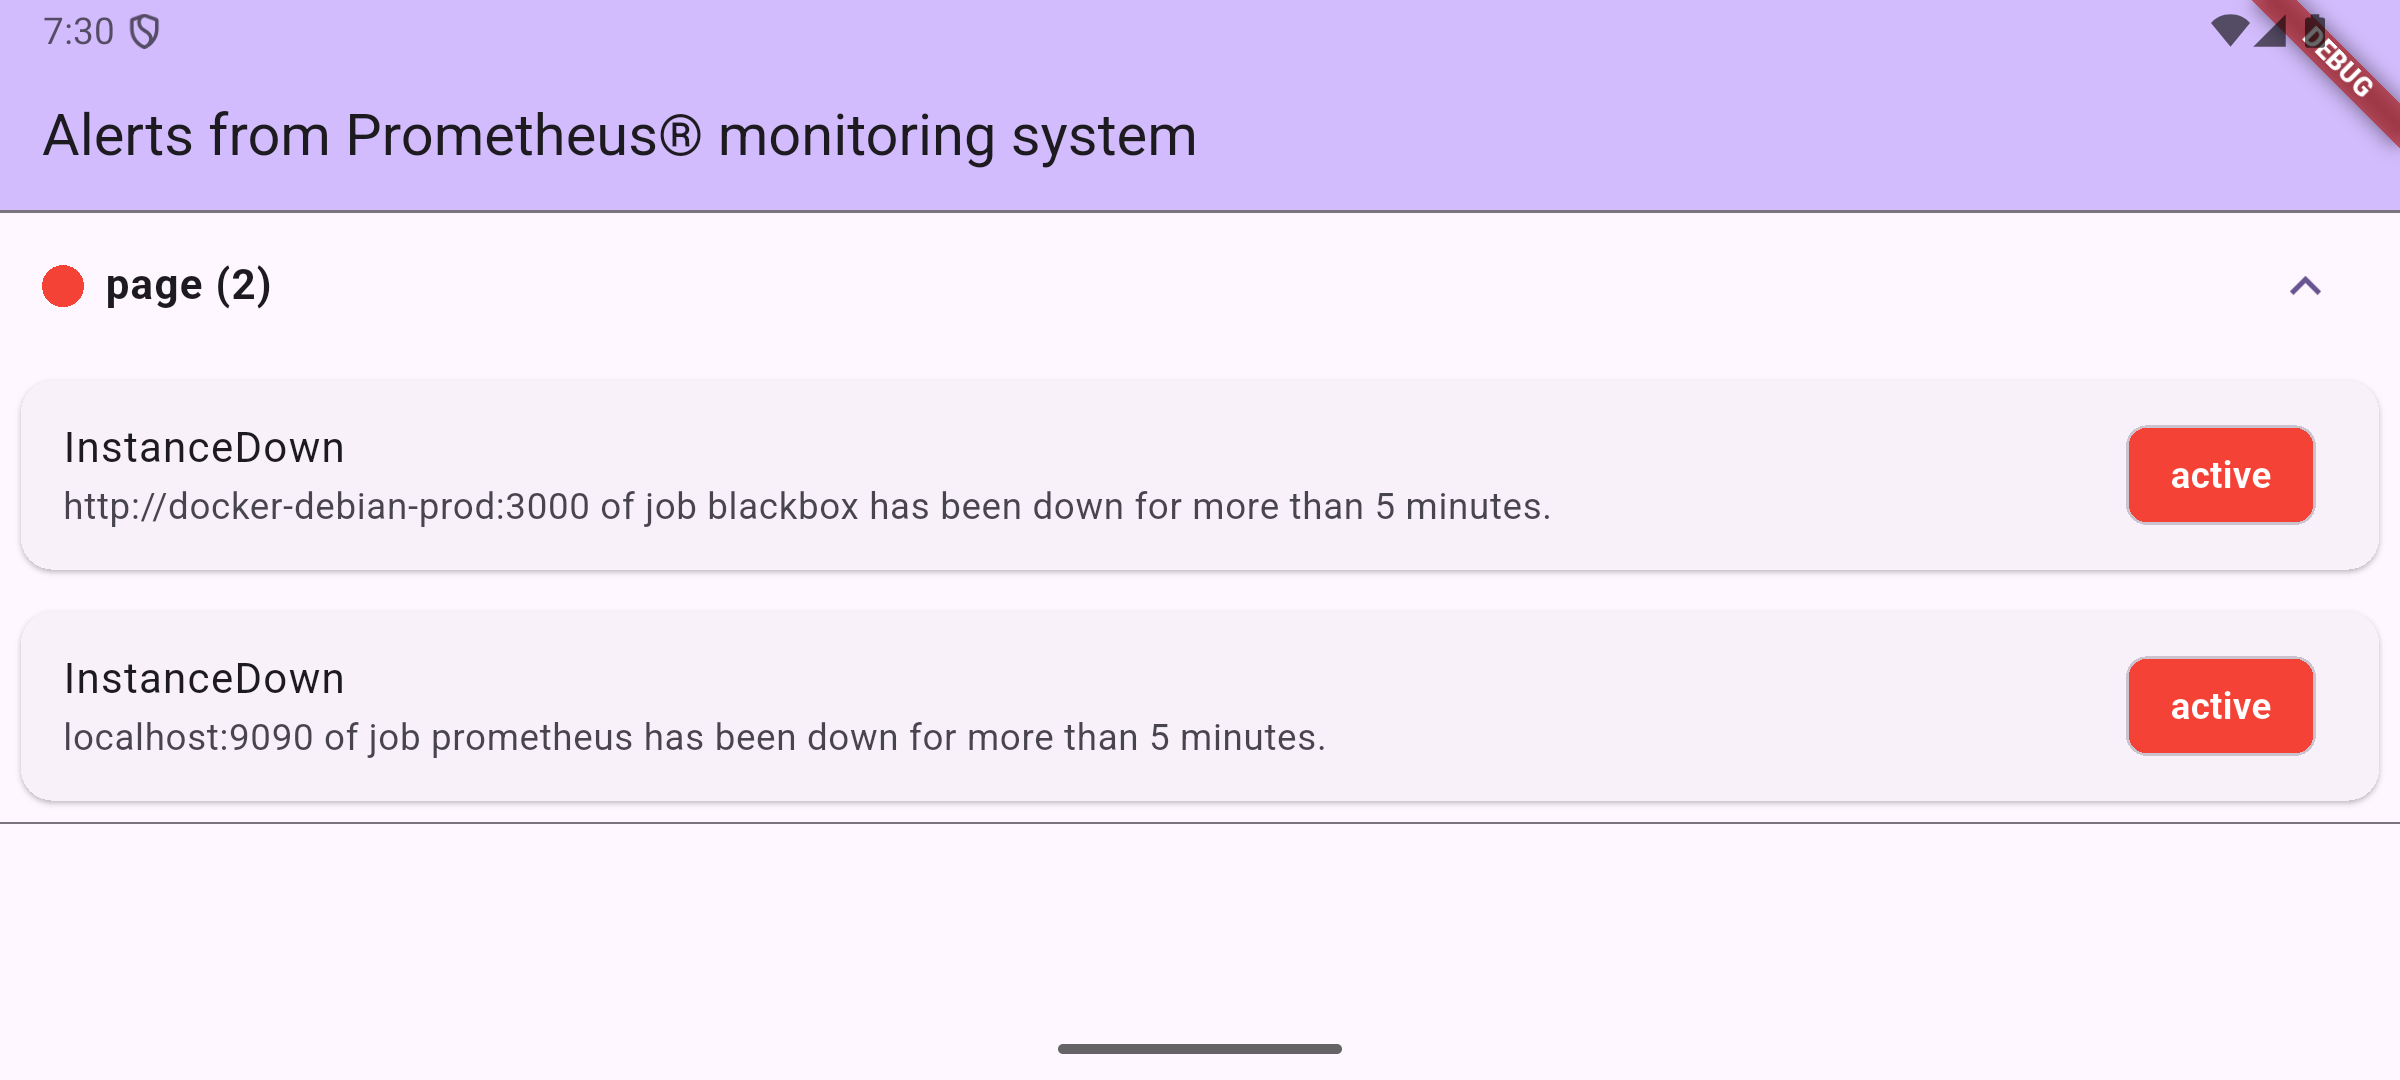
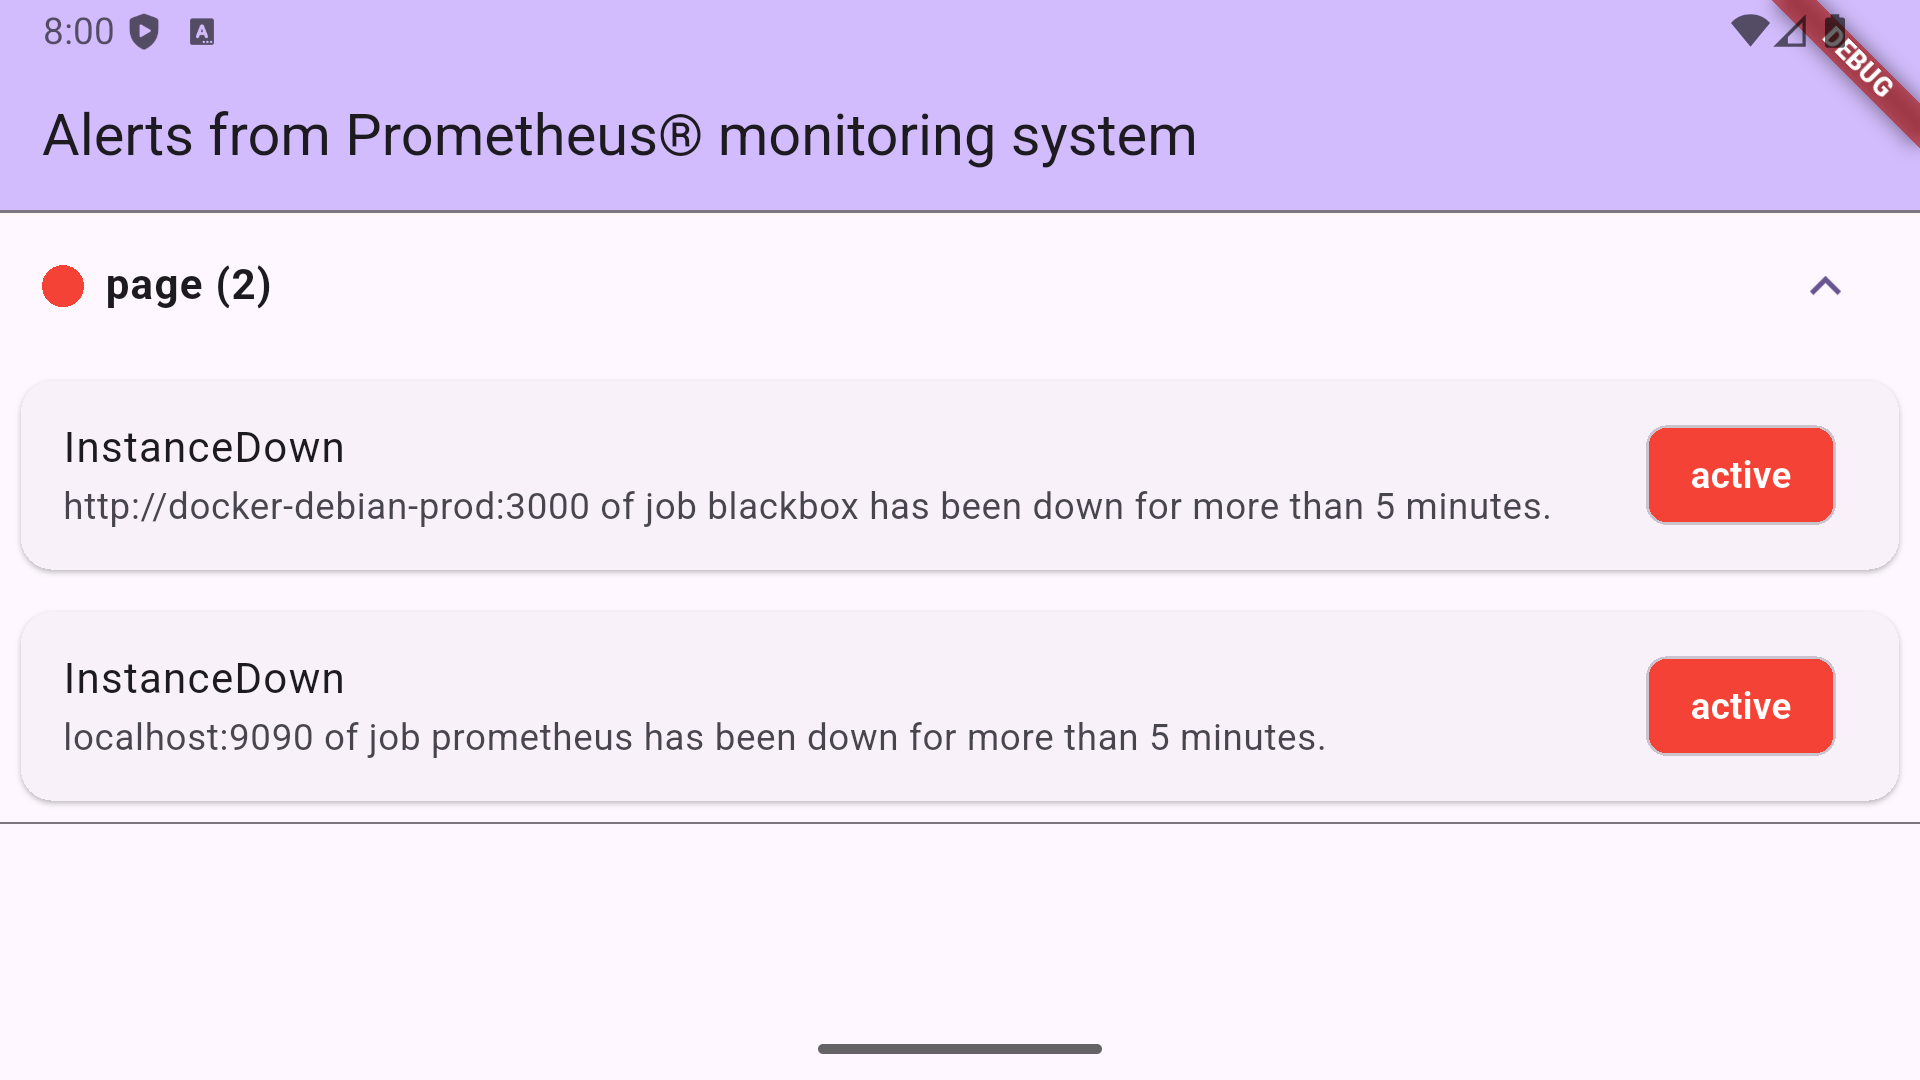
feat: frame screenshots

diff --git a/android/fastlane/metadata/android/screenshots.html b/android/fastlane/metadata/android/screenshots.html
@@ -69,7 +69,7 @@
     <hr>
     <table>
       <tr>
-        <th colspan="2">
+        <th colspan="4">
           <a id="en-US-phoneScreenshots" class="deviceName" href="#en-US-phoneScreenshots">phoneScreenshots</a>
         </th>
       </tr>

diff --git a/README.md b/README.md
@@ -4,7 +4,7 @@ A simple [Flutter](https://flutter.dev/) app to fetch and display [Prometheus® 
 
 *Not affiliated with the official Prometheus® Alertmanager project.*
 
-![Alert overview landscape](android/fastlane/metadata/android/en-US/images/phoneScreenshots/Landscape.png)
+![Alert overview landscape](android/fastlane/metadata/android/en-US/images/phoneScreenshots/Landscape_framed.png)
 
 ## Requirements
 
